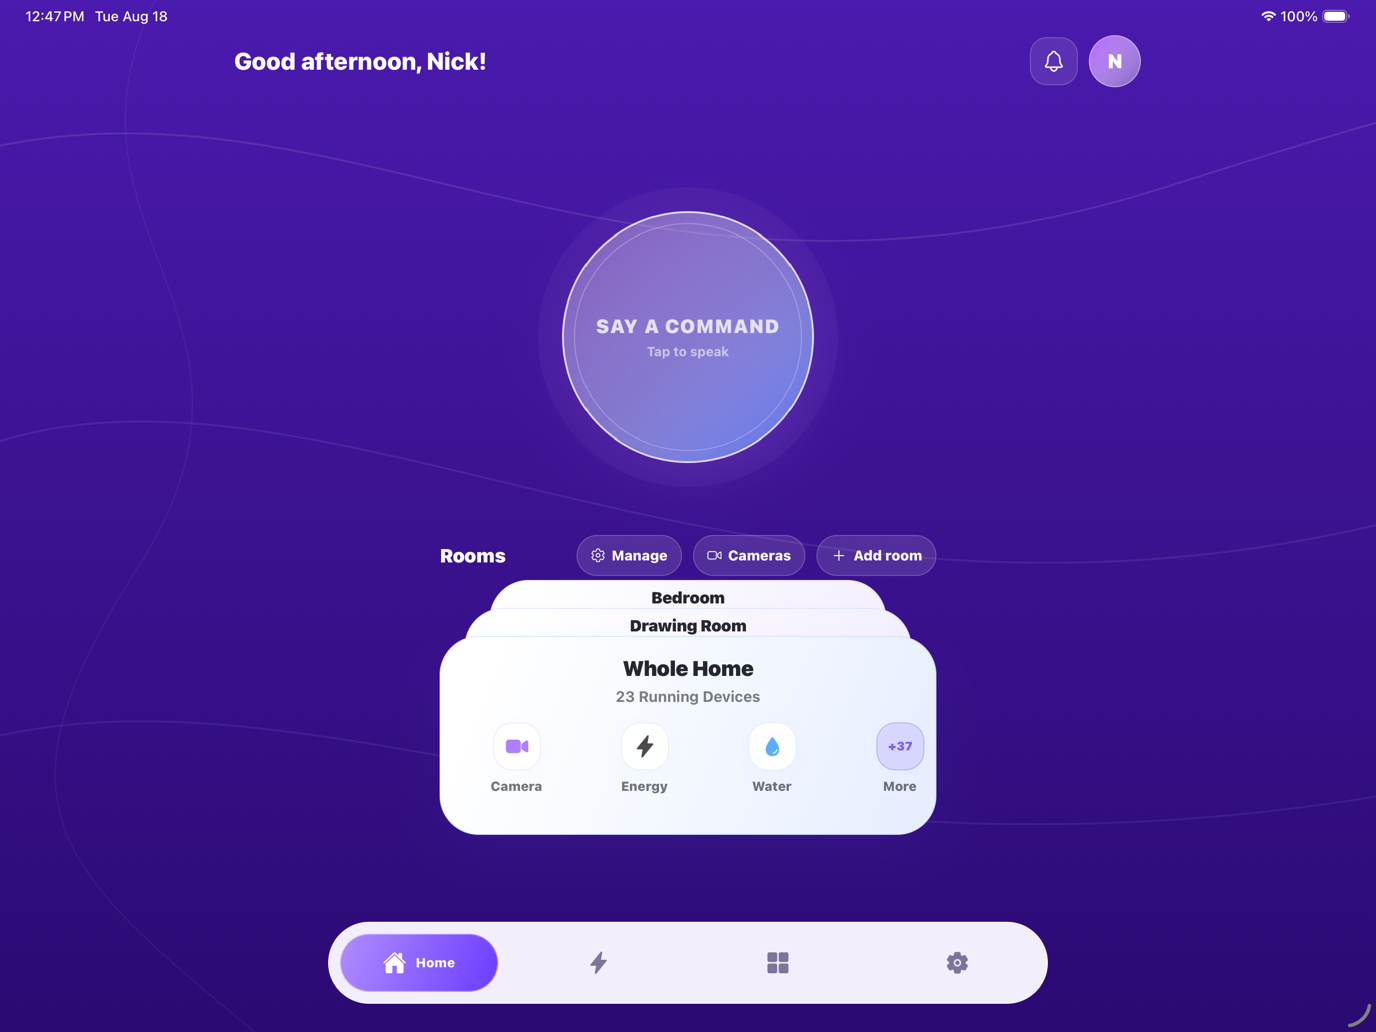
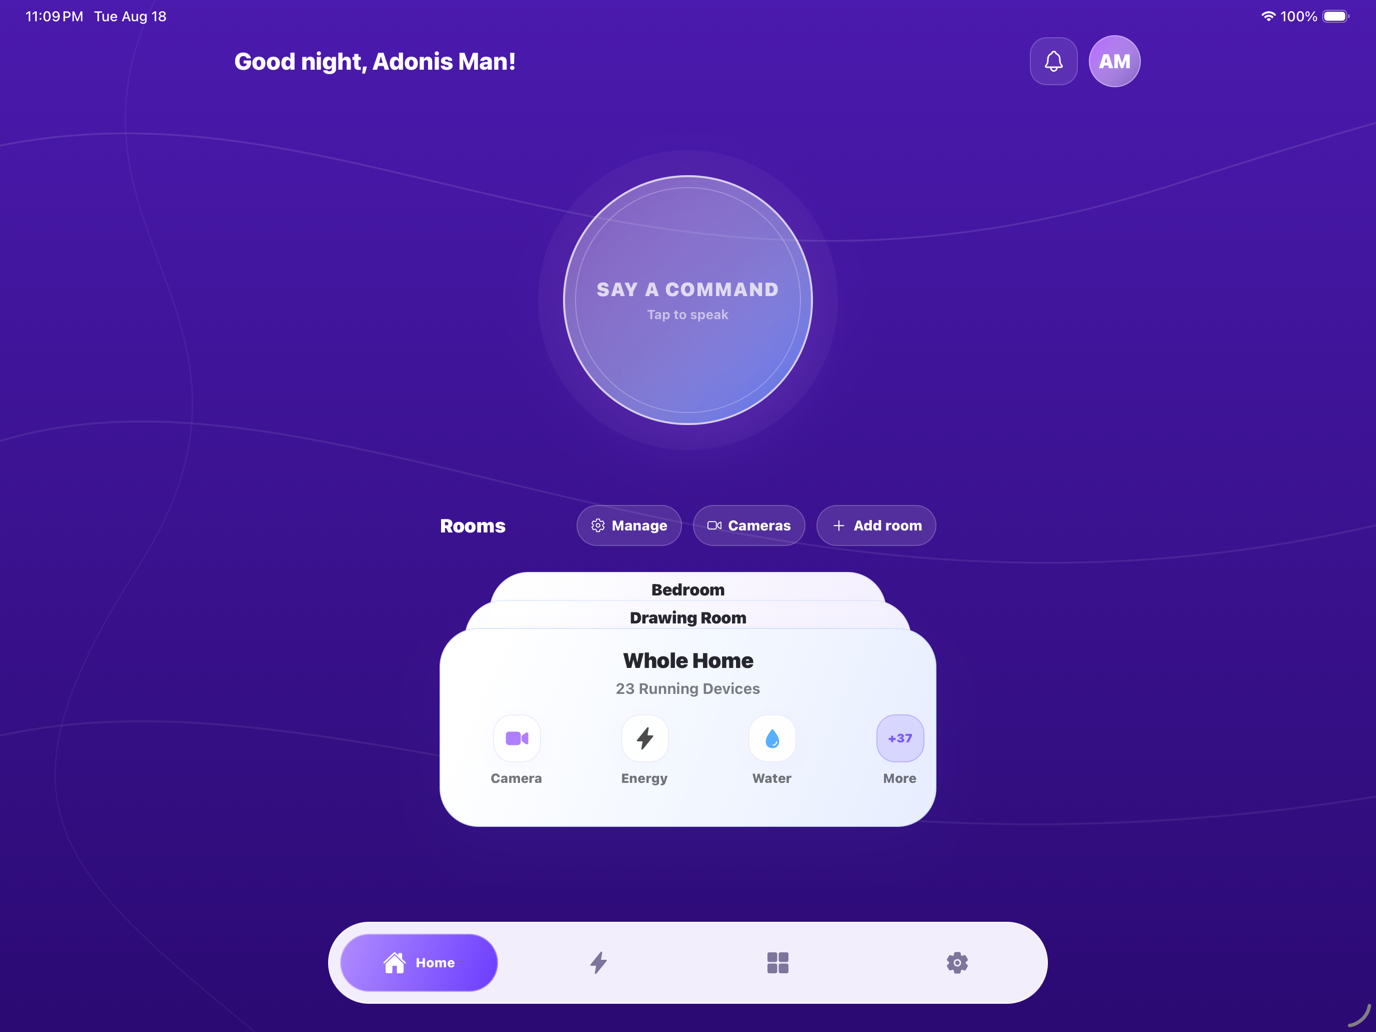
Refine tablet landscape deck spacing

diff --git a/src/screens/HomeScreen.tsx b/src/screens/HomeScreen.tsx
@@ -61,19 +61,18 @@ export default function HomeScreen() {
   const landscapeGap = Math.round((isTablet ? 26 : 16) * scale);
   const landscapeOrbWidth = Math.round((isTablet ? 270 : 220) * scale);
   const tabletLandscapeHeroGap = Math.round(
-    (isVeryShortTabletLandscape ? 8 : isShortTabletLandscape ? 14 : 24) *
+    (isVeryShortTabletLandscape ? 8 : isShortTabletLandscape ? 14 : 72) *
       scale,
   );
+  // The rear carousel cards rise above their container, so this includes that
+  // lift while preserving a visible gap beneath the room action buttons.
   const tabletLandscapeDeckGap = Math.round(
-    (isVeryShortTabletLandscape ? 8 : isShortTabletLandscape ? 10 : 12) *
+    (isVeryShortTabletLandscape ? 8 : isShortTabletLandscape ? 14 : 44) *
       scale,
   );
   const tabletLandscapeBottomLift = Math.round(
     (isVeryShortTabletLandscape ? 6 : isShortTabletLandscape ? 12 : 0) *
       scale,
-  );
-  const tabletLandscapeDeckOffset = Math.round(
-    (isShortTabletLandscape ? 0 : 48) * scale,
   );
   const landscapeCarouselWidth = isTabletLandscape
     ? Math.min(
@@ -186,9 +185,6 @@ export default function HomeScreen() {
       width: landscapeCarouselWidth,
       marginTop: 0,
       alignSelf: "center",
-      // The fixed tab bar carries substantial visual weight. Lowering only the
-      // room deck balances that weight without pulling the orb off center.
-      transform: [{ translateY: tabletLandscapeDeckOffset }],
     },
   ];
   const roomsHeaderStyle: StyleProp<ViewStyle> = [
@@ -217,8 +213,8 @@ export default function HomeScreen() {
       gap: landscapeGap,
     },
     isTabletLandscape && {
-      // Center the hero group within the usable viewport; the room section has
-      // its own optical offset on taller tablets to balance the fixed tab bar.
+      // Keep the orb and room deck in normal layout flow so the centered group
+      // reserves its full height and cannot drift into the fixed tab bar.
       paddingBottom: tabletLandscapeBottomLift,
       flexDirection: "column",
       alignItems: "center",

diff --git a/src/screens/__tests__/HomeScreen.test.tsx b/src/screens/__tests__/HomeScreen.test.tsx
@@ -244,18 +244,14 @@ describe("HomeScreen", () => {
     expect(heroStyle.flexDirection).toBe("column");
     expect(heroStyle.alignItems).toBe("center");
     expect(heroStyle.justifyContent).toBe("center");
-    expect(heroStyle.gap).toBeGreaterThanOrEqual(24);
+    expect(heroStyle.gap).toBeGreaterThanOrEqual(72);
     expect(heroStyle.paddingBottom).toBe(0);
     expect(orbStyle.width).toBe("100%");
     expect(roomsStyle.alignSelf).toBe("center");
     expect(roomsStyle.width).toBeGreaterThan(0);
     expect(roomsStyle.width).toBeLessThanOrEqual(mockLayout.contentWidth * 0.52);
-    expect(roomsStyle.transform).toEqual([
-      { translateY: expect.any(Number) },
-    ]);
-    expect(roomsStyle.transform[0].translateY).toBeGreaterThanOrEqual(48);
-    expect(carouselWrapStyle.marginTop).toBeGreaterThanOrEqual(12);
-    expect(carouselWrapStyle.marginTop).toBeLessThanOrEqual(14);
+    expect(roomsStyle.transform).toBeUndefined();
+    expect(carouselWrapStyle.marginTop).toBeGreaterThanOrEqual(44);
     act(() => {
       tree.unmount();
     });
@@ -291,8 +287,9 @@ describe("HomeScreen", () => {
     expect(heroStyle.justifyContent).toBe("center");
     expect(heroStyle.gap).toBeLessThanOrEqual(16);
     expect(heroStyle.paddingBottom).toBeLessThanOrEqual(14);
-    expect(roomsStyle.transform[0].translateY).toBe(0);
-    expect(carouselWrapStyle.marginTop).toBeLessThanOrEqual(11);
+    expect(roomsStyle.transform).toBeUndefined();
+    expect(carouselWrapStyle.marginTop).toBeGreaterThanOrEqual(14);
+    expect(carouselWrapStyle.marginTop).toBeLessThanOrEqual(16);
     act(() => {
       tree.unmount();
     });
